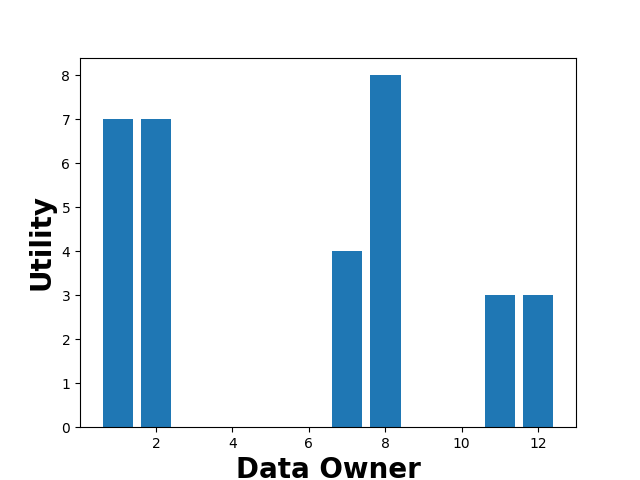
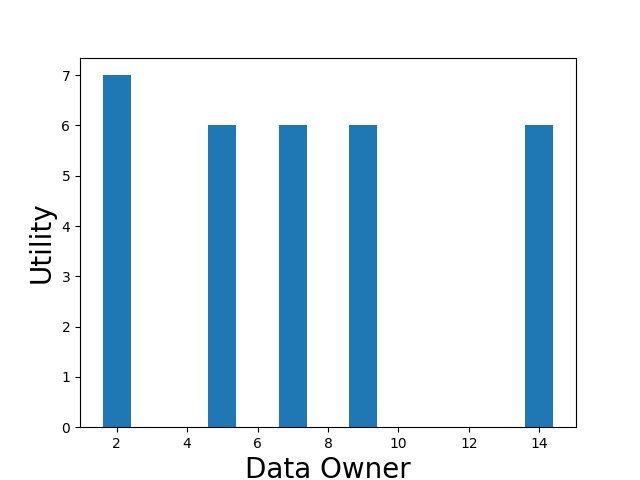
maybe all done

diff --git a/auction3.py b/auction3.py
@@ -230,15 +230,15 @@ for i in Owner:
 x_axis  = [i for i in ownerutil]
 y_axis  = [ownerutil[i] for i in ownerutil]
 plt.bar(x_axis,y_axis)
-plt.xlabel('Model Owner',fontweight = 'bold')
-plt.ylabel('Utility',fontweight = 'bold')
+plt.xlabel('Model Owner',fontsize = 20)
+plt.ylabel('Utility',fontsize = 20)
 plt.show() 
 
 x_axis = [i for i in finalmap]
 y_axis = [userutil[i] for i in finalmap]
 plt.bar(x_axis,y_axis)
-plt.xlabel('Data Owner',fontweight = 'bold',fontsize = 20)
-plt.ylabel('Utility',fontweight = 'bold',fontsize = 20)
+plt.xlabel('Data Owner',fontsize = 20)
+plt.ylabel('Utility',fontsize = 20)
 plt.show()
 
 barwidth = 0.25
@@ -253,8 +253,8 @@ br2 = [i + barwidth for i in br1]
 plt.bar(br1,bids,color='r',width=barwidth,edgecolor='grey',label='Bid')
 plt.bar(br2,price,color='g',width=barwidth,edgecolor='grey',label='Price')
 
-plt.xlabel('Model Owner',fontweight='bold',fontsize=20)
-plt.ylabel('Bids and Prices',fontweight='bold',fontsize=20)
+plt.xlabel('Model Owner',fontsize=20)
+plt.ylabel('Bids and Prices',fontsize=20)
 plt.xticks([r + barwidth for r in range(len(bids))],[r for r in G])
 
 plt.legend()
@@ -272,8 +272,8 @@ br2 = [i + barwidth for i in br1]
 plt.bar(br1,dem,color='r',width=barwidth,edgecolor='grey',label='Demands')
 plt.bar(br2,payme,color='g',width=barwidth,edgecolor='grey',label='Payments')
 
-plt.xlabel('Winning User',fontweight='bold',fontsize=20)
-plt.ylabel('Demands and Payments',fontweight='bold',fontsize=20)
+plt.xlabel('Winning User',fontsize=20)
+plt.ylabel('Demands and Payments',fontsize=20)
 plt.xticks([r + barwidth for r in range(len(dem))],[r for r in finalmap])
 
 plt.legend()
@@ -282,15 +282,15 @@ plt.show()
 x_axis  = [i for i in newownerutil]
 y_axis  = [newownerutil[i] for i in newownerutil]
 plt.bar(x_axis,y_axis)
-plt.xlabel('Model Owner',fontweight = 'bold',fontsize = 20)
-plt.ylabel('Utility',fontweight = 'bold',fontsize = 20)
+plt.xlabel('Model Owner',fontsize = 20)
+plt.ylabel('Utility',fontsize = 20)
 plt.show() 
 
 x_axis  = [i for i in newuserutil]
 y_axis  = [newuserutil[i] for i in newuserutil]
 plt.bar(x_axis,y_axis)
-plt.xlabel('User',fontweight = 'bold',fontsize = 20)
-plt.ylabel('Utility',fontweight = 'bold',fontsize = 20)
+plt.xlabel('User',fontsize = 20)
+plt.ylabel('Utility',fontsize = 20)
 plt.show() 
 
 bids = [hello[i] for i in hello]
@@ -303,8 +303,8 @@ br2 = [i + barwidth for i in br1]
 plt.bar(br1,bids,color='r',width=barwidth,edgecolor='grey',label='Bid')
 plt.bar(br2,price,color='g',width=barwidth,edgecolor='grey',label='Price')
 
-plt.xlabel('Model Owner',fontweight='bold',fontsize=20)
-plt.ylabel('Bids and Prices',fontweight='bold',fontsize=20)
+plt.xlabel('Model Owner',fontsize=20)
+plt.ylabel('Bids and Prices',fontsize=20)
 plt.xticks([r + barwidth for r in range(len(bids))],[r for r in hello])
 
 plt.legend()
@@ -319,8 +319,8 @@ br2 = [i + barwidth for i in br1]
 plt.bar(br1,dem,color='r',width=barwidth,edgecolor='grey',label='Demands')
 plt.bar(br2,payme,color='g',width=barwidth,edgecolor='grey',label='Payments')
 
-plt.xlabel('Winning User',fontweight='bold',fontsize=20)
-plt.ylabel('Demands and Payments',fontweight='bold',fontsize=20)
+plt.xlabel('Winning User',fontsize=20)
+plt.ylabel('Demands and Payments',fontsize=20)
 plt.xticks([r + barwidth for r in range(len(dem))],[r for r in finalmap2])
 
 plt.legend()

diff --git a/auction2.py b/auction2.py
@@ -378,8 +378,8 @@ br2 = [i + barwidth for i in br1]
 plt.bar(br1,dem,color='r',width=barwidth,edgecolor='grey',label='Prices')
 plt.bar(br2,payme,color='g',width=barwidth,edgecolor='grey',label='Payment')
 
-plt.xlabel('Prices',fontweight='bold',fontsize=20)
-plt.ylabel('Payments',fontweight='bold',fontsize=20)
+plt.xlabel('Prices',fontsize=20)
+plt.ylabel('Payments',fontsize=20)
 plt.xticks([r + barwidth for r in range(len(dem))],[r for r in show3])
 
 plt.legend()
@@ -393,8 +393,8 @@ br2 = [i + barwidth for i in br1]
 plt.bar(br1,dem,color='r',width=barwidth,edgecolor='grey',label='Prices')
 plt.bar(br2,payme,color='g',width=barwidth,edgecolor='grey',label='Payments')
 
-plt.xlabel('Prices',fontweight='bold',fontsize=20)
-plt.ylabel('Payments',fontweight='bold',fontsize=20)
+plt.xlabel('Prices',fontsize=20)
+plt.ylabel('Payments',fontsize=20)
 plt.xticks([r + barwidth for r in range(len(dem))],[r for r in show1])
 
 plt.legend()
